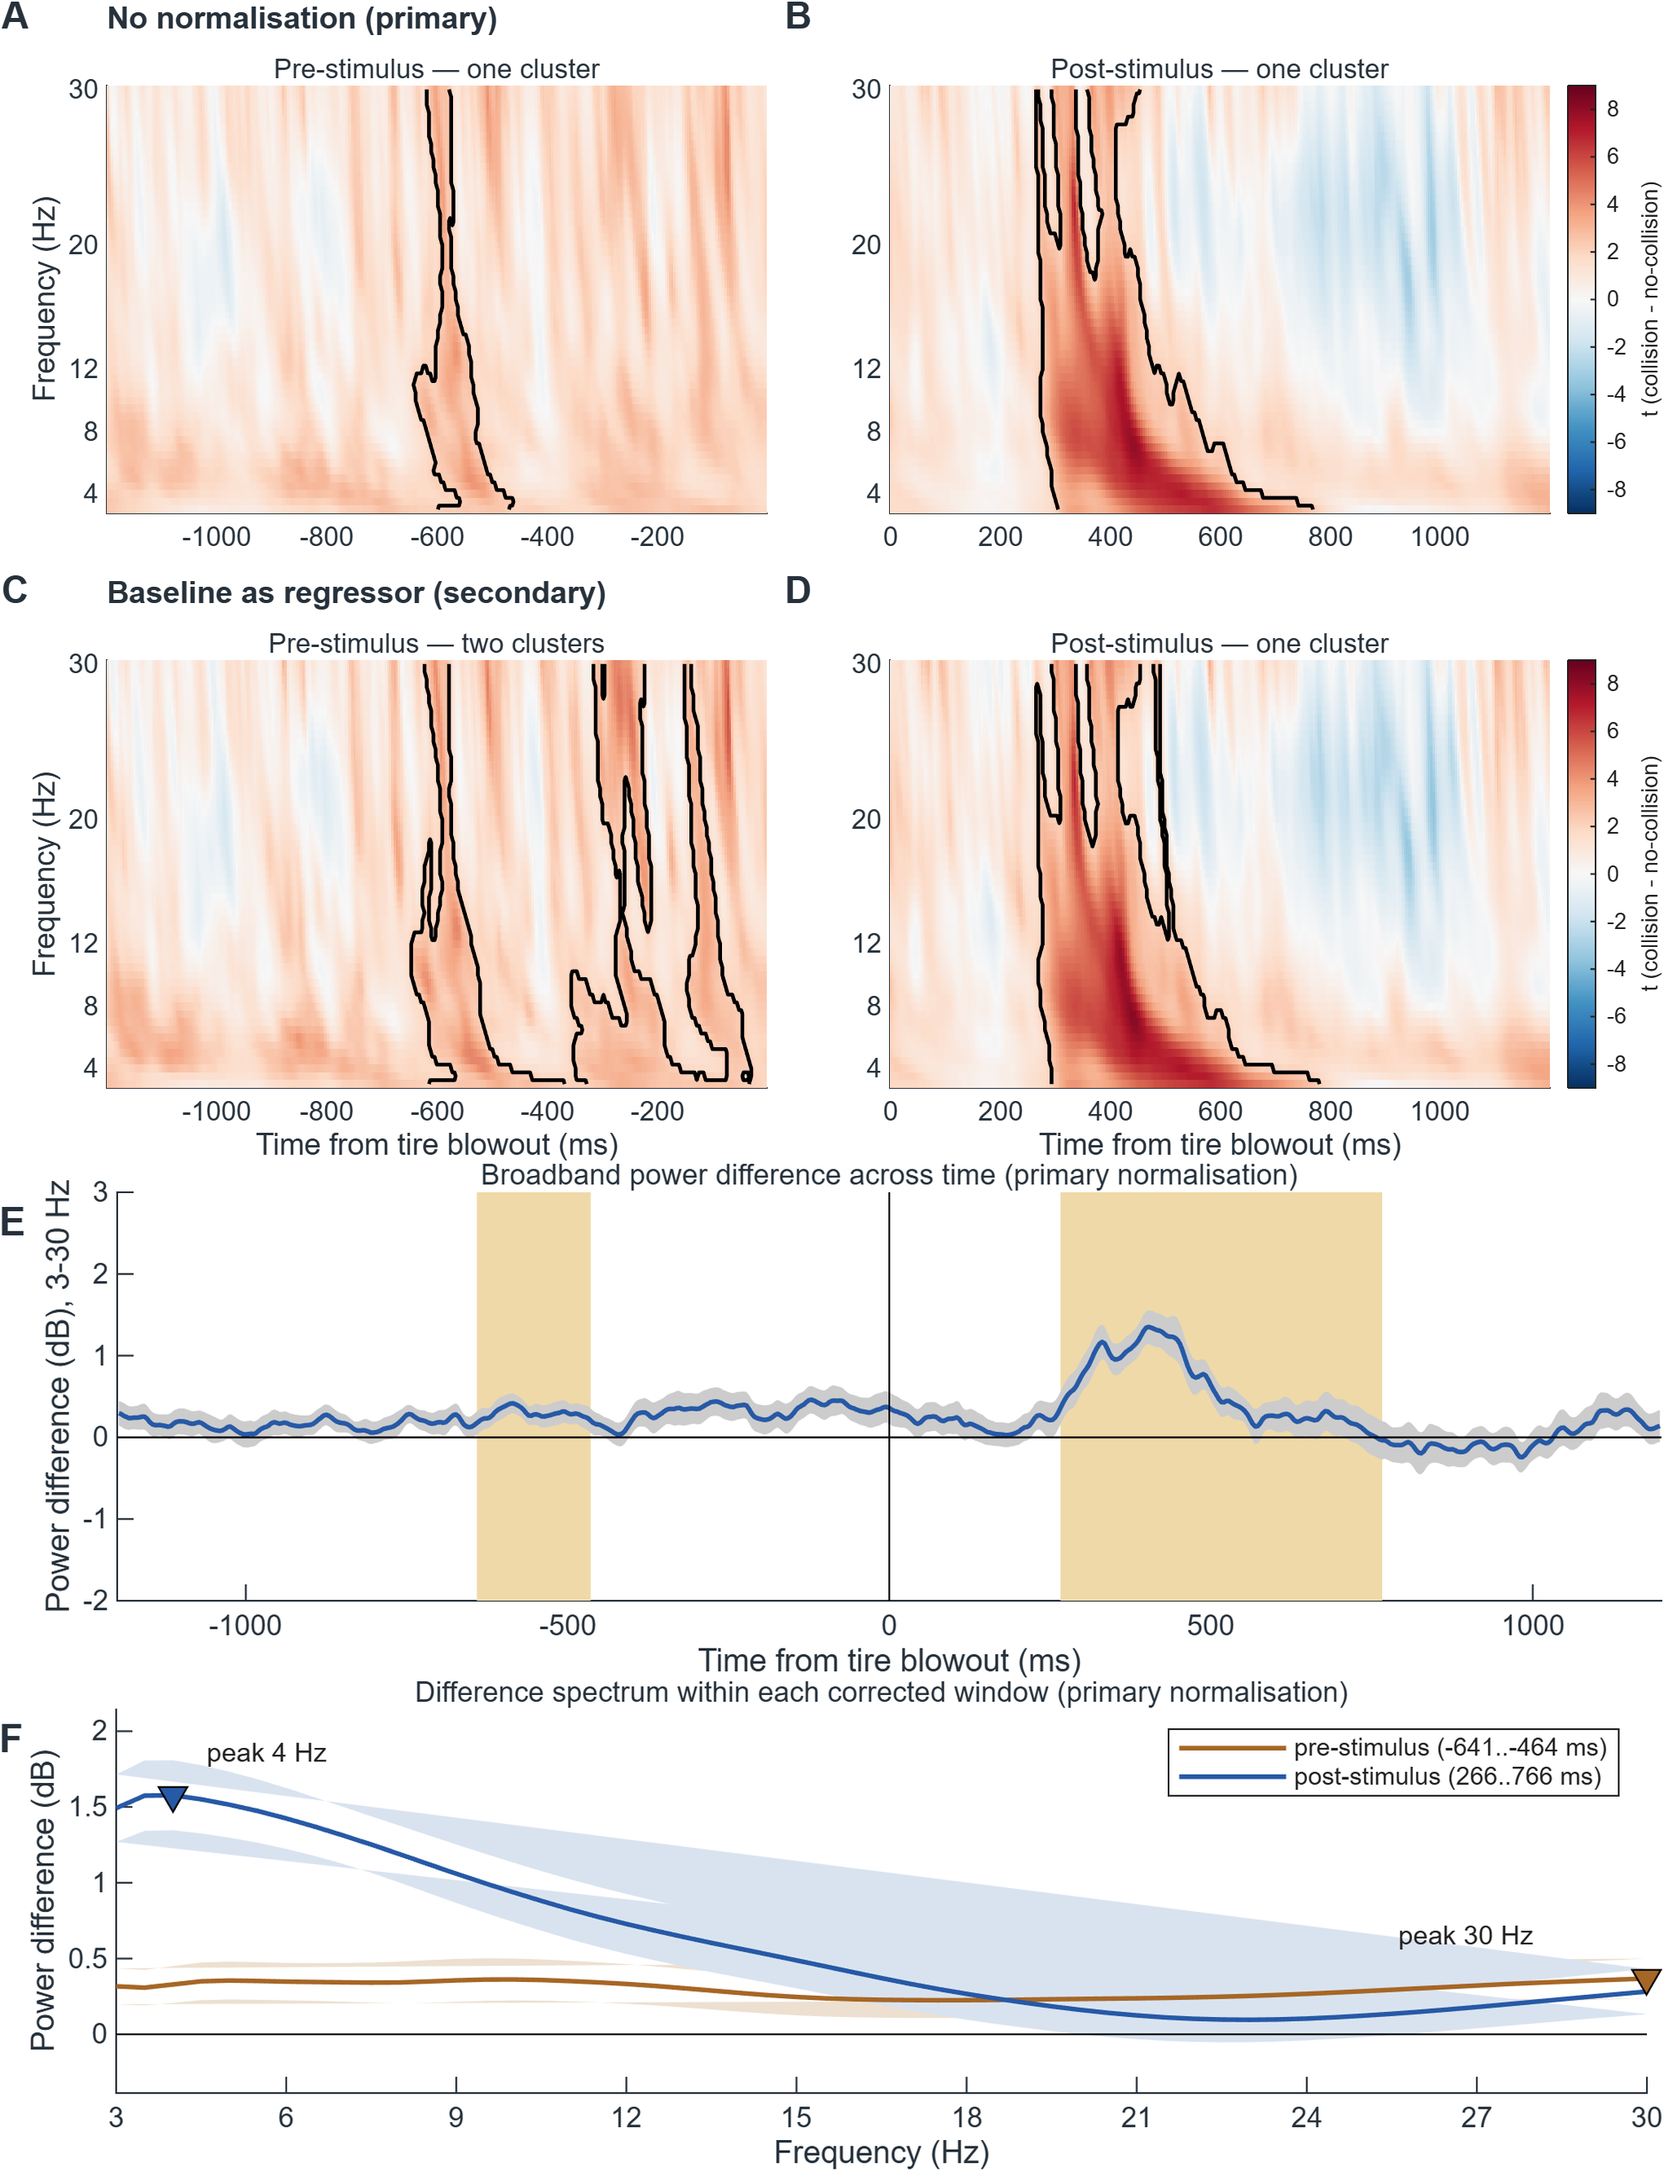
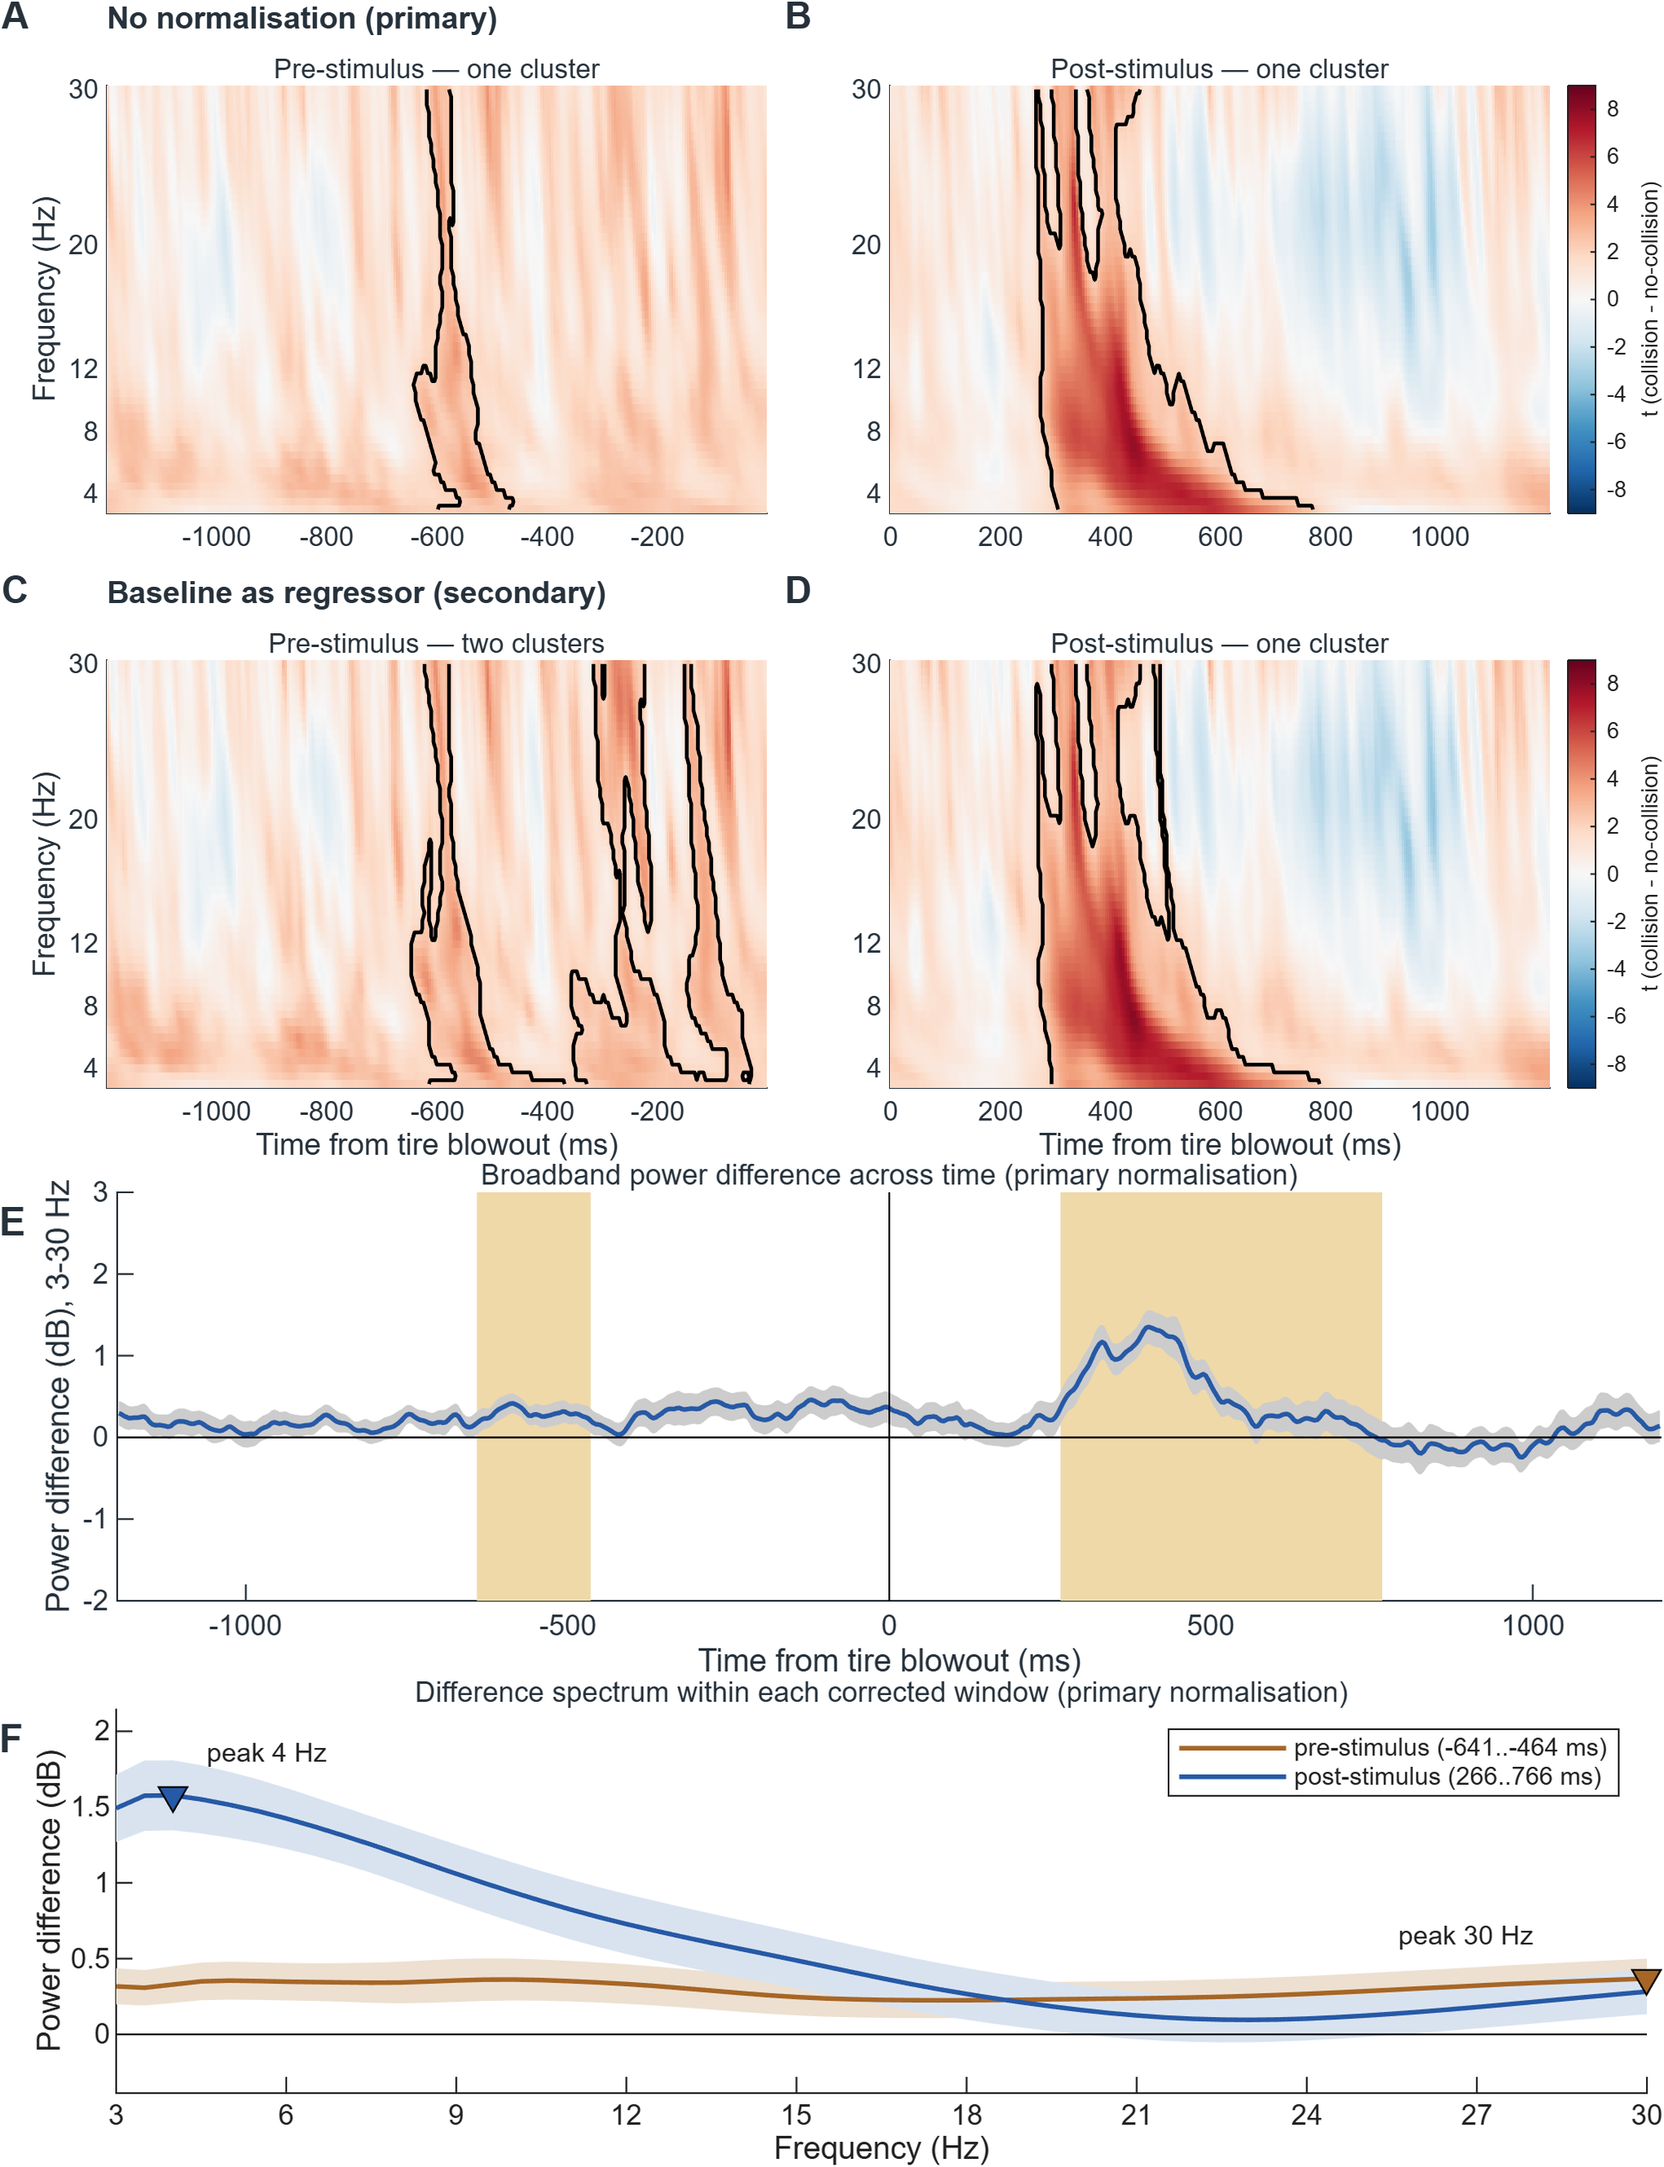
Figures: fix the s.e.m. band in Figure 4F, update Figure 1D to the final classification (16 folds, 0-1200 ms), unitless amplitude labels; README: current title, preprint link, OpenNeuro version and DOI, raw-data description, ERP peak latency

diff --git a/analysis/make_figures.m b/analysis/make_figures.m
@@ -102,7 +102,7 @@ yline(ax, 0, 'Color', [0.79 0.82 0.85], 'LineWidth', 0.7);
 xline(ax, 0, '--', 'Color', INK, 'LineWidth', 0.9);
 xlim(ax, [-1500 1500]);
 xlabel(ax, 'Time from tire blowout (ms)');
-ylabel(ax, 'Amplitude (\muV)');
+ylabel(ax, 'Amplitude');
 legend(ax, [h1 h2], {'collision', 'no-collision'}, 'Box', 'off', ...
        'FontSize', 7, 'Location', 'northwest');
 yl = ylim(ax);
@@ -203,7 +203,7 @@ for k = 1:nCl
     xline(ax, 0, '--', 'Color', INK, 'LineWidth', 0.9);
     xlabel(ax, 'Time from tire blowout (ms)');
     if k == 1
-        ylabel(ax, 'Amplitude (\muV)');
+        ylabel(ax, 'Amplitude');
         legend(ax, [h1 h2], {'collision', 'no-collision'}, 'Box', 'off', ...
                'FontSize', 6.5, 'Location', 'southwest');
     else
@@ -223,7 +223,7 @@ for k = 1:nCl
              'style', 'map', 'shading', 'interp', 'conv', 'on', 'whitebk', 'on', ...
              'headrad', 0.5, 'emarker', {'.', 'k', 4, 1});
     colormap(axi, CMAP);
-    text(axi, 0, -0.72, sprintf('%+.1f \\muV at %s', diff(ci), chanOf(k)), ...
+    text(axi, 0, -0.72, sprintf('%+.1f at %s', diff(ci), chanOf(k)), ...
          'FontSize', 5.8, 'Color', MUT, 'HorizontalAlignment', 'center');
 end
 apply_cmap(f, CMAP);
@@ -437,9 +437,13 @@ f = newfig(7.2, 2.2);
 axF = axes('Parent', f, 'Position', [0.085 0.22 0.83 0.68]); hold(axF, 'on');
 COLF = {[0.65 0.40 0.15], [0.15 0.35 0.65]};             % pre warm / post blue
 BANDF = {[0.93 0.88 0.82], [0.85 0.89 0.94]};
+% foi and mF(:,iW) are COLUMNS: concatenate vertically with flipud. The
+% row-vector idiom [x, fliplr(x)] on columns builds a 2-column matrix that fill()
+% draws as two separate polygons (each curve closed on its own chord), which
+% leaves white wedges inside the band instead of the +-1 s.e.m. ribbon.
 for iW = 1:2
-    fill(axF, [foi, fliplr(foi)], ...
-         [mF(:,iW)+seF(:,iW), fliplr(mF(:,iW)-seF(:,iW))], BANDF{iW}, ...
+    fill(axF, [foi; flipud(foi)], ...
+         [mF(:,iW)+seF(:,iW); flipud(mF(:,iW)-seF(:,iW))], BANDF{iW}, ...
          'EdgeColor', 'none');
 end
 plot(axF, [3 30], [0 0], 'k-', 'LineWidth', 0.5);

diff --git a/README.md b/README.md
@@ -1,4 +1,4 @@
-# Reactive and predictive processes during unpredictable driving hazards in virtual reality
+# Reactive and predictive processes during unpredictable driving collisions in virtual reality
 
 ![Study overview: multimodal immersive VR recording, signal processing, and robust statistics / ML classification](figures/repo_banner.png)
 
@@ -6,16 +6,16 @@ Pre- and post-stimulus neurophysiology of unpredictable car collisions in immers
 reality, recorded with the Galea multimodal headset (OpenBCI) integrated into a Varjo Aero HMD.
 
 Cannard, C., & Yeşilbaş, D. (2026). *Reactive and predictive processes during
-unpredictable driving hazards in virtual reality: an exploratory brain and body
-study with multimodal neurophysiological monitoring.* Supported by the BIAL
-Foundation. Preregistered at [osf.io/xuw34](https://osf.io/xuw34). A preprint of
-this article is available on [bioRxiv](https://www.biorxiv.org/content/10.64898/2026.09.24.754154v2).
+unpredictable driving collisions in virtual reality: an exploratory immersive
+study with multimodal neurophysiological monitoring.* Manuscript under review.
+Supported by the BIAL Foundation. Preregistered at [osf.io/xuw34](https://osf.io/xuw34).
+A preprint of this article is available on [bioRxiv](https://www.biorxiv.org/content/10.64898/2026.09.24.754154).
 
 ## Layout
 
 | Folder | Contents |
 |---|---|
-| `pipeline/` | Per-subject preprocessing. `galea_pipeline_v6_EEG.m` is current; `functions/` holds the Galea-specific helpers (import, event renaming, polarity correction, bad-channel detection). `galea_pipeline_v5_ppg.m` produces the per-subject heart-rate exports (`ERP_PPG.mat`) the cardiac analysis reads. `convert_to_bids.m` converts the study data to BIDS + HED; `rebuild_erp_from_bids.m` regenerates the per-subject exports from the BIDS derivative; `verify_bids_roundtrip.m` checks the round-trip against the original exports. |
+| `pipeline/` | Per-subject preprocessing. `galea_pipeline_v6_EEG.m` is current; `functions/` holds the Galea-specific helpers (import, event renaming, polarity correction, bad-channel detection). `galea_pipeline_v5_ppg.m` produces the per-subject heart-rate exports (`ERP_PPG.mat`) the cardiac analysis reads. `convert_to_bids.m` converts the study data to BIDS + HED; `rebuild_erp_from_bids.m` regenerates the per-subject exports from a locally built BIDS derivative (`derivatives/EEGPreprocessed`); `verify_bids_roundtrip.m` checks the round-trip against the original exports. |
 | `analysis/` | Group-level analyses. Everything named `run_final_*` operates on the repaired dataset and writes to `results_final/`. |
 | `figures/` | The paper's figures, regenerated by `analysis/make_figures.m` (Figure 1 is a vector schematic; Figure 2 shows the plugin's two dialogs). |
 | `results_final/` | Output of the current analyses. Superseded folders were removed; they are archived in the study's Proton Drive archive (`code_archive/results_superseded/`). |
@@ -58,11 +58,14 @@ each later step reads only what earlier steps wrote.
 
 ### Step 1 — Data
 
-The raw and preprocessed recordings are openly available in BIDS format with
-HED annotations at OpenNeuro (https://doi.org/10.18112/openneuro.ds008837),
-mirrored at NEMAR (https://www.nemar.org). Download the dataset and point
-`paths.data` in
-`galea_set_paths.m` at the folder containing the per-subject exports.
+The raw recordings are openly available in BIDS format with HED annotations at
+OpenNeuro: https://openneuro.org/datasets/ds008837 (version 1.1.2,
+doi: [10.18112/openneuro.ds008837.vv1.1.2](https://doi.org/10.18112/openneuro.ds008837.vv1.1.2)).
+Each `sub-XXX/eeg` folder holds the continuous, unprocessed recordings, and
+`sourcedata/` holds the original OpenBCI files as written by the acquisition
+software. The preprocessed data are not part of the dataset; they are produced
+by Step 2. Point `paths.data` in `galea_set_paths.m` at the folder that holds
+the per-subject recordings and exports.
 
 The delivered quantum-random-number trial sequences are in
 `data/stim_sequences_delivered/` (one CSV per subject) and inside the BIDS
@@ -114,7 +117,7 @@ already in the repository; everything else regenerates from the result files.
 
 Spot-check against the paper:
 
-- Post-stimulus ERP: 2 significant clusters, the largest peaking at ~500 ms.
+- Post-stimulus ERP: 2 significant clusters, the largest peaking at 451.6 ms.
 - Pre-stimulus ERP: no cluster survives correction.
 - Time-frequency: 1 post and 1 pre cluster (no-normalisation), 1 post and 2 pre
   (GLM-baseline normalisation).
